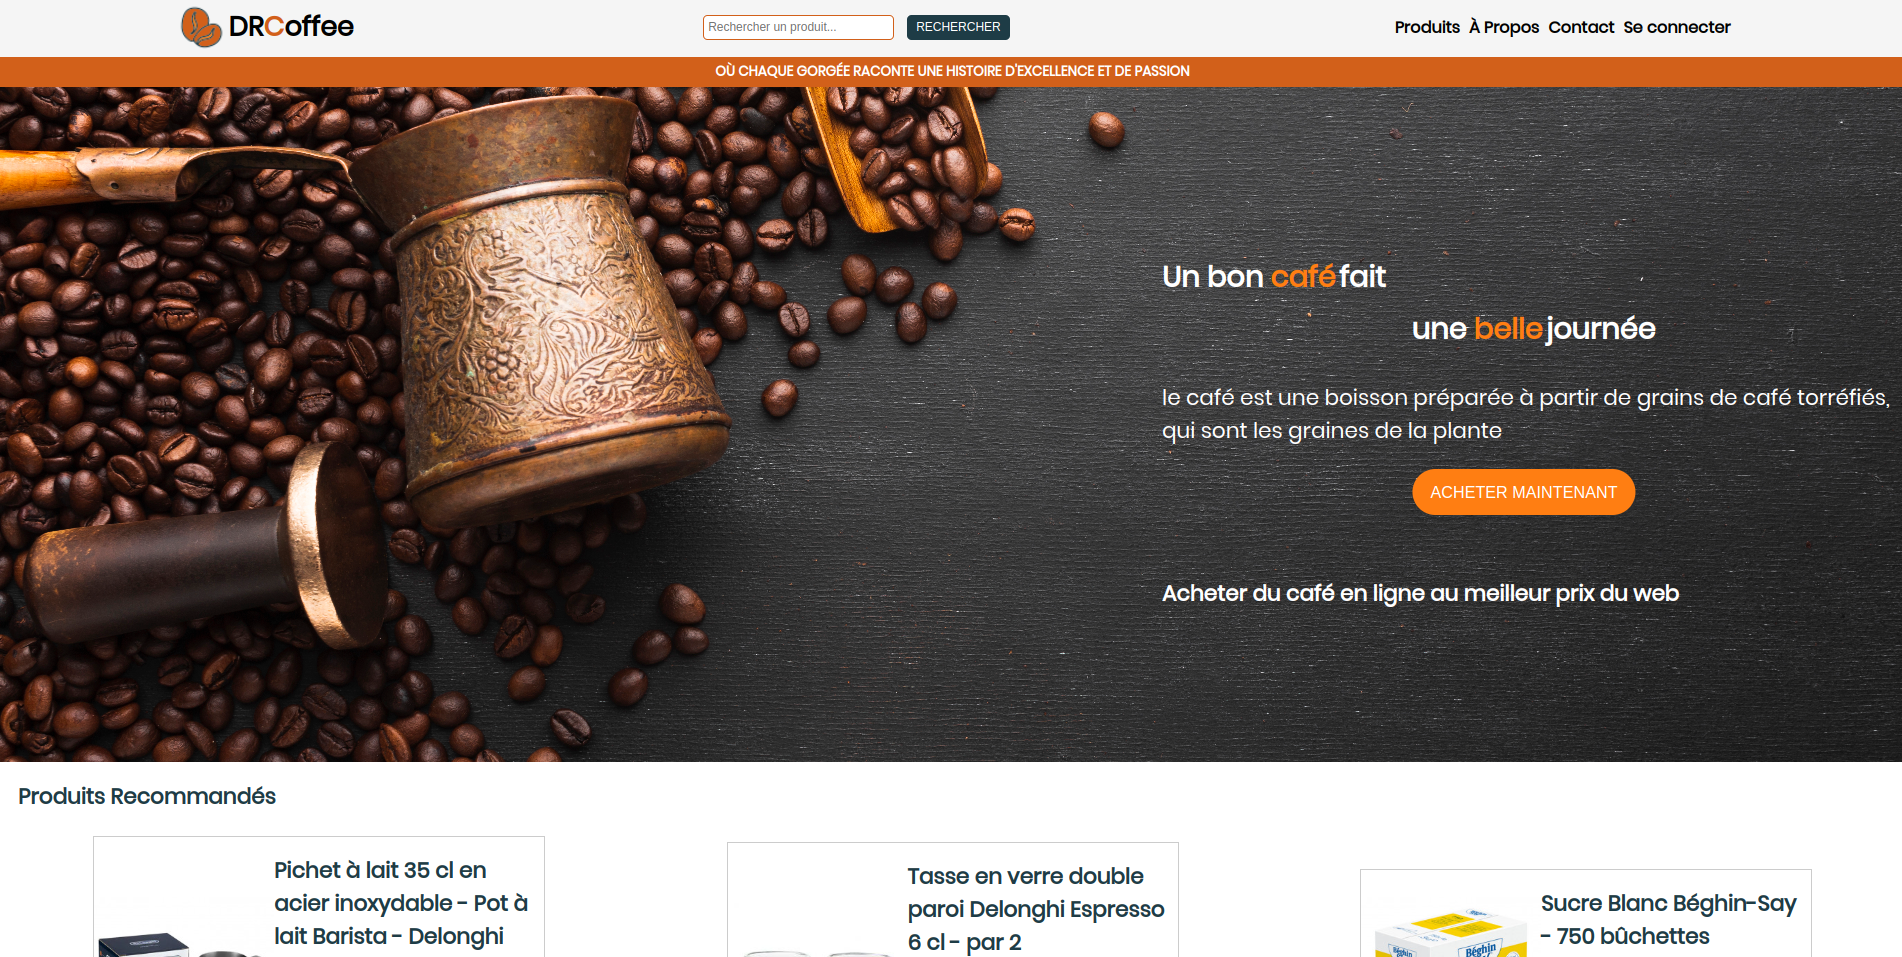
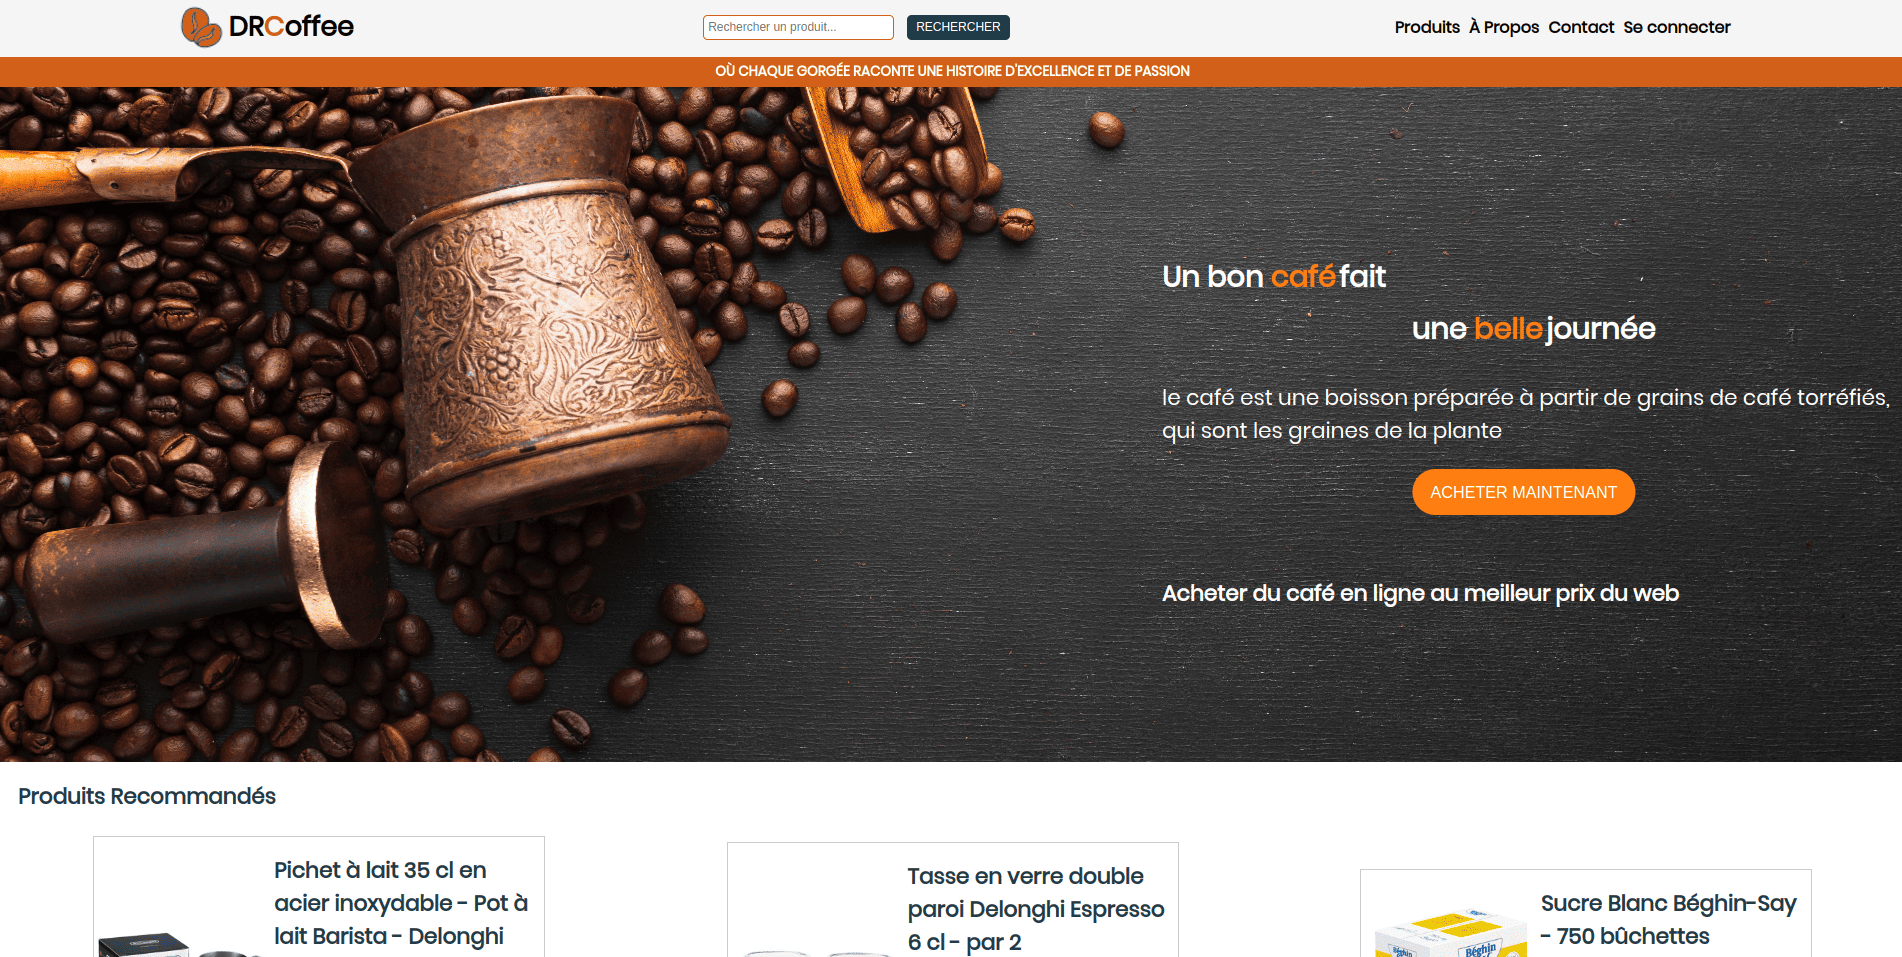
compress images

Changed region(s): [[0.0, 0.1515, 0.0931, 0.2121], [0.4343, 0.1515, 0.4653, 0.2424], [0.7755, 0.9697, 0.8065, 1.0]]

diff --git a/src/components/ui/icon-cloud.jsx b/src/components/ui/icon-cloud.jsx
@@ -1,108 +1,58 @@
-// import React, { useState, useEffect, useMemo } from 'react';
-// import { useTheme } from 'next-themes';
-// import { Cloud, fetchSimpleIcons, renderSimpleIcon } from 'react-icon-cloud';
+import React, { useState, useEffect, useMemo } from 'react';
+import { useTheme } from 'next-themes';
+import { Cloud, fetchSimpleIcons, renderSimpleIcon } from 'react-icon-cloud';
 
-// const cloudProps = {
-//   containerProps: {
-//     style: {
-//       display: "flex",
-//       justifyContent: "center",
-//       alignItems: "center",
-//       width: "100%",
-//       paddingTop: 40,
-//       id: "c0ebcbb6-d9fe-af0c-a899-02eb199a75d5"
-//     },
-//   },
-//   options: {
-//     reverse: true,
-//     depth: 1,
-//     wheelZoom: false,
-//     imageScale: 2,
-//     activeCursor: "default",
-//     tooltip: "native",
-//     initial: [0.1, -0.1],
-//     clickToFront: 500,
-//     tooltipDelay: 0,
-//     outlineColour: "#0000",
-//     maxSpeed: 0.04,
-//     minSpeed: 0.02,
-//   },
-// };
+const cloudProps = {
+  containerProps: {
+    style: {
+      display: "flex",
+      justifyContent: "center",
+      alignItems: "center",
+      width: "100%",
+      paddingTop: 40,
+      id: "c0ebcbb6-d9fe-af0c-a899-02eb199a75d5"
+    },
+  },
+  options: {
+    reverse: true,
+    depth: 1,
+    wheelZoom: false,
+    imageScale: 2,
+    activeCursor: "default",
+    tooltip: "native",
+    initial: [0.1, -0.1],
+    clickToFront: 500,
+    tooltipDelay: 0,
+    outlineColour: "#0000",
+    maxSpeed: 0.04,
+    minSpeed: 0.02,
+  },
+};
 
-// const renderCustomIcon = (icon, theme) => {
-//   const bgHex = theme === "light" ? "#f3f2ef" : "#080510";
-//   const fallbackHex = theme === "light" ? "#6e6e73" : "#ffffff";
-//   const minContrastRatio = theme === "dark" ? 2 : 1.2;
+const renderCustomIcon = (icon, theme) => {
+  const bgHex = theme === "light" ? "#f3f2ef" : "#080510";
+  const fallbackHex = theme === "light" ? "#6e6e73" : "#ffffff";
+  const minContrastRatio = theme === "dark" ? 2 : 1.2;
 
-//   return renderSimpleIcon({
-//     icon,
-//     bgHex,
-//     fallbackHex,
-//     minContrastRatio,
-//     size: 42,
-//     aProps: {
-//       href: undefined,
-//       target: undefined,
-//       rel: undefined,
-//       onClick: (e) => e.preventDefault(),
-//     },
-//   });
-// };
+  return renderSimpleIcon({
+    icon,
+    bgHex,
+    fallbackHex,
+    minContrastRatio,
+    size: 42,
+    aProps: {
+      href: undefined,
+      target: undefined,
+      rel: undefined,
+      onClick: (e) => e.preventDefault(),
+    },
+  });
+};
 
-// // Export as default and named export
-// export const IconCloudDemo = () => {
-//   const [data, setData] = useState(null);
-//   const { theme } = useTheme();
-
-//   const slugs = [
-//     "typescript", "javascript", "dart", "java", "react", "flutter",
-//     "android", "html5", "css3", "nodedotjs", "amazonaws", "firebase",
-//     "docker", "git", "github", "gitlab", "visualstudiocode",
-//     "androidstudio", "figma"
-//   ];
-
-//   useEffect(() => {
-//     const fetchIcons = async () => {
-//       try {
-//         const iconData = await fetchSimpleIcons({ slugs });
-//         setData(iconData);
-//       } catch (error) {
-//         console.error("Failed to fetch icons:", error);
-//       }
-//     };
-
-//     fetchIcons();
-//   }, []);
-
-//   const renderedIcons = useMemo(() => {
-//     if (!data) return null;
-//     return Object.values(data.simpleIcons).map((icon) =>
-//       renderCustomIcon(icon, theme || "light")
-//     );
-//   }, [data, theme]);
-
-//   return (
-//     <div className="relative flex max-w-[32rem] items-center justify-center overflow-hidden rounded-lg p-3 md:p-6">
-//       {data && (
-//         <Cloud
-//           {...cloudProps}
-//           id="c0ebcbb6-d9fe-af0c-a899-02eb199a75d5"
-//         >
-//           {renderedIcons}
-//         </Cloud>
-//       )}
-//     </div>
-//   );
-// };
-
-// export default IconCloudDemo;
-
-import React, { useState, useEffect } from 'react';
-import { fetchSimpleIcons } from 'react-icon-cloud';
-import { Cloud } from 'react-icon-cloud';
-
-const IconCloudDemo = () => {
-  const [icons, setIcons] = useState([]);
+// Export as default and named export
+export const IconCloudDemo = () => {
+  const [data, setData] = useState(null);
+  const { theme } = useTheme();
 
   const slugs = [
     "typescript", "javascript", "dart", "java", "react", "flutter",
@@ -111,67 +61,121 @@ const IconCloudDemo = () => {
     "androidstudio", "figma"
   ];
 
-  const cloudProps = {
-    containerProps: {
-      style: {
-        display: "flex",
-        justifyContent: "center",
-        alignItems: "center",
-        width: "100%",
-        height: "300px",
-        margin: "0 auto"
-      },
-    },
-    options: {
-      reverse: true,
-      depth: 1,
-      wheelZoom: false,
-      imageScale: 2,
-      activeCursor: "default",
-      tooltip: "native",
-      initial: [0.1, -0.1],
-      clickToFront: 500,
-      tooltipDelay: 0,
-      outlineColour: "#0000",
-      maxSpeed: 0.04,
-      minSpeed: 0.02,
-    },
-  };
-
   useEffect(() => {
-    const loadIcons = async () => {
+    const fetchIcons = async () => {
       try {
         const iconData = await fetchSimpleIcons({ slugs });
-        const loadedIcons = Object.values(iconData.simpleIcons);
-        setIcons(loadedIcons);
+        setData(iconData);
       } catch (error) {
-        console.error("Failed to load icons:", error);
+        console.error("Failed to fetch icons:", error);
       }
     };
 
-    loadIcons();
+    fetchIcons();
   }, []);
 
-  if (icons.length === 0) {
-    return <div>Loading icons...</div>;
-  }
+  const renderedIcons = useMemo(() => {
+    if (!data) return null;
+    return Object.values(data.simpleIcons).map((icon) =>
+      renderCustomIcon(icon, theme || "light")
+    );
+  }, [data, theme]);
+
+  // if (data.length === 0) {
+  //   return <div>Loading icons...</div>;
+  // }
 
   return (
-    <div className="w-full max-w-[500px] mx-auto">
-      <Cloud {...cloudProps}>
-        {icons.map((icon, index) => (
-          <img
-            key={index}
-            src={`https://cdn.simpleicons.org/${icon.slug}t?viewbox=auto`}
-            // src={`https://cdn.simpleicons.org/${icon.slug}/256/${icon.hex}`}
-            alt={icon.title}
-            width="42"
-            height="42"
-          />
-        ))}
-      </Cloud>
+    <div className="relative flex max-w-[32rem] items-center justify-center overflow-hidden rounded-lg p-3 md:p-6">
+      {data && (
+        <Cloud
+          {...cloudProps}
+          id="c0ebcbb6-d9fe-af0c-a899-02eb199a75d5"
+        >
+          {renderedIcons}
+        </Cloud>
+      )}
     </div>
   );
 };
 
 export default IconCloudDemo;
+// "use client";
+// import React, { useState, useEffect } from 'react';
+// import { fetchSimpleIcons } from 'react-icon-cloud';
+// import { Cloud } from 'react-icon-cloud';
+
+// const IconCloudDemo = () => {
+//   const [icons, setIcons] = useState([]);
+
+//   const slugs = [
+//     "typescript", "javascript", "dart", "java", "react", "flutter",
+//     "android", "html5", "css3", "nodedotjs", "amazonaws", "firebase",
+//     "docker", "git", "github", "gitlab", "visualstudiocode",
+//     "androidstudio", "figma"
+//   ];
+
+//   const cloudProps = {
+//     containerProps: {
+//       style: {
+//         display: "flex",
+//         justifyContent: "center",
+//         alignItems: "center",
+//         width: "100%",
+//         height: "300px",
+//         margin: "0 auto"
+//       },
+//     },
+//     options: {
+//       reverse: true,
+//       depth: 1,
+//       wheelZoom: false,
+//       imageScale: 2,
+//       activeCursor: "default",
+//       tooltip: "native",
+//       initial: [0.1, -0.1],
+//       clickToFront: 500,
+//       tooltipDelay: 0,
+//       outlineColour: "#0000",
+//       maxSpeed: 0.04,
+//       minSpeed: 0.02,
+//     },
+//   };
+
+//   useEffect(() => {
+//     const loadIcons = async () => {
+//       try {
+//         const iconData = await fetchSimpleIcons({ slugs });
+//         const loadedIcons = Object.values(iconData.simpleIcons);
+//         setIcons(loadedIcons);
+//       } catch (error) {
+//         console.error("Failed to load icons:", error);
+//       }
+//     };
+
+//     loadIcons();
+//   }, []);
+
+//   if (icons.length === 0) {
+//     return <div>Loading icons...</div>;
+//   }
+
+//   return (
+//     <div className="w-full max-w-[500px] mx-auto">
+//       <Cloud {...cloudProps}>
+//         {icons.map((icon, index) => (
+//           <img
+//             key={index}
+//             src={`https://cdn.simpleicons.org/${icon.slug}?viewbox=auto`}
+//             // src={`https://cdn.simpleicons.org/${icon.slug}/256/${icon.hex}`}
+//             alt={icon.title}
+//             width="42"
+//             height="42"
+//           />
+//         ))}
+//       </Cloud>
+//     </div>
+//   );
+// };
+
+// export default IconCloudDemo;

diff --git a/src/components/ui/floating-dock.jsx b/src/components/ui/floating-dock.jsx
@@ -16,7 +16,6 @@ export const FloatingDock = ({
 
   const toggleTheme = () => {
     setTheme((prevTheme) => (prevTheme === "light" ? "dark" : "light"));
-    console.log("suucess");
 
     document.body.classList.toggle("dark", theme === "light");
   };
